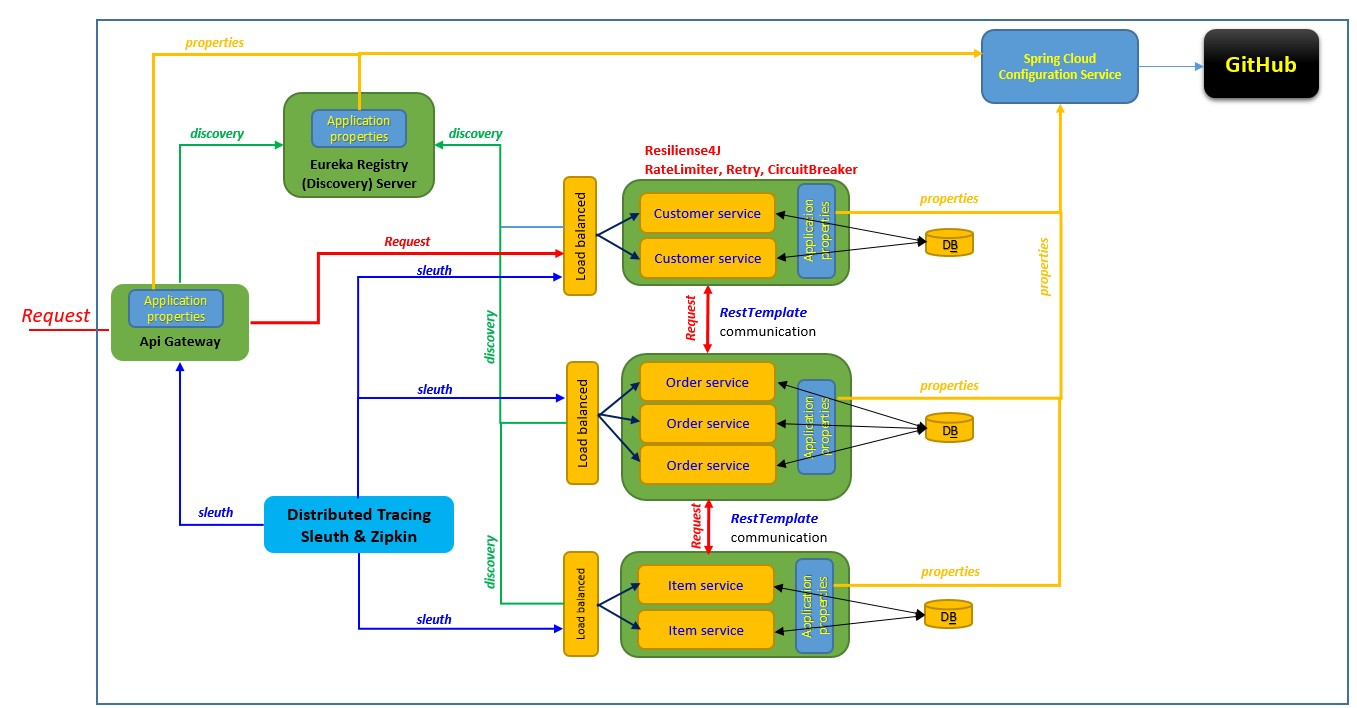
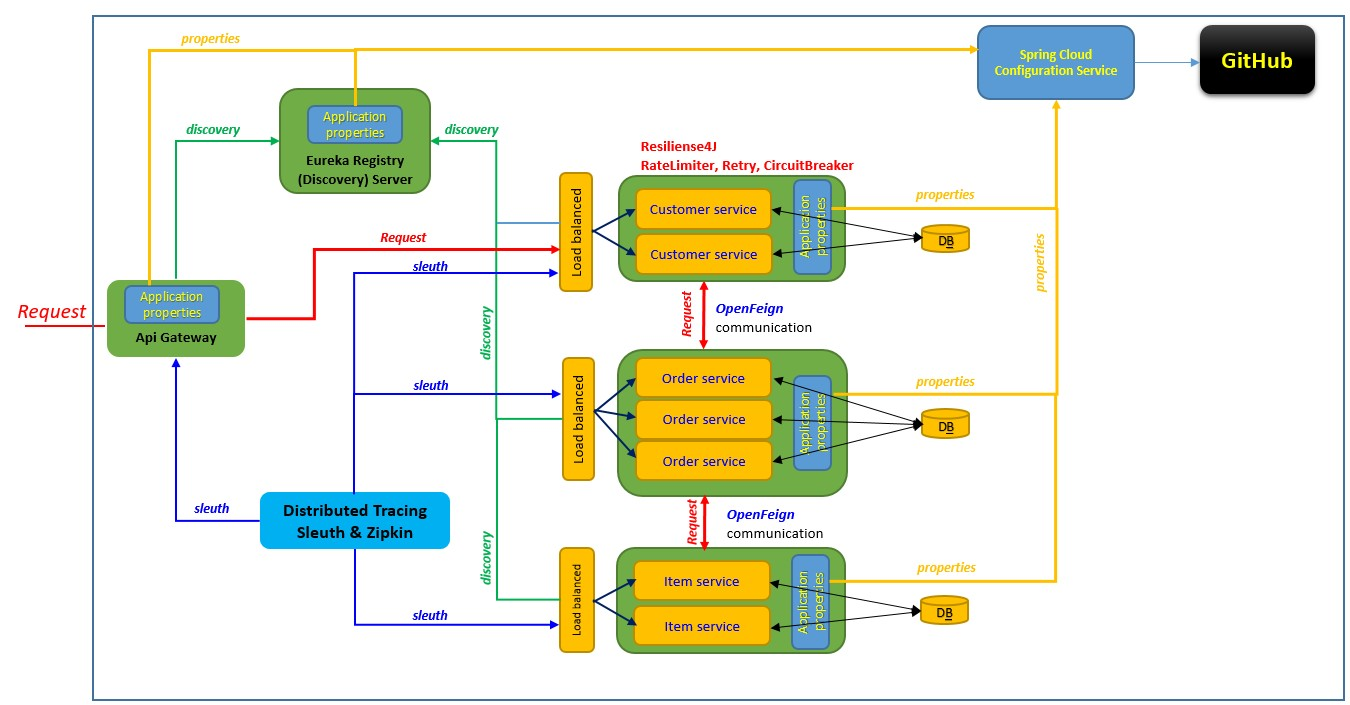
26-02-2026 12:50

Changed region(s): [[0.0, 0.0, 1.0, 0.9986]]

diff --git a/src/pages/MicroServices/MicroServiceComponents/M1_ArchitectureSpringBoot2Pkg/O0_ArchitecureOptionsSections/O2_SpringBoot2Architecture.tsx b/src/pages/MicroServices/MicroServiceComponents/M1_ArchitectureSpringBoot2Pkg/O0_ArchitecureOptionsSections/O2_SpringBoot2Architecture.tsx
@@ -4,6 +4,7 @@
 */
 import { IMG, Li, MainChildArea, ULDecimal, ULdisc } from "../../../../../components";
 import { SpanYellow } from "../../../../../components/Highlight";
+import microservice_1 from "../../../../../assets/microservice_1.jpg";
 
 const O2_SpringBoot2Architecture = ({ anchor }: { anchor: string }) => {
   return (
@@ -17,22 +18,51 @@ const O2_SpringBoot2Architecture = ({ anchor }: { anchor: string }) => {
             <Li>✅ Eureka</Li>
             <Li>✅ API Gateway</Li>
             <Li>✅ Config Server</Li>
-            <Li>✅ Load-balanced instances</Li>
+            <Li>
+              ✅ Load-balanced
+              <ULdisc>
+                <Li>Ribbon was used (now dead)</Li>
+                <Li>Use Spring Cloud LoadBalancer</Li>
+              </ULdisc>
+            </Li>
             <Li>✅ Separate DB per service</Li>
             <Li>✅ Resilience4j</Li>
-            <Li>✅ Sleuth + Zipkin (distributed tracing stack) standard tracing solution for Spring Boot 2 microservices</Li>
+            <Li>
+              ✅ Observability Sleuth + Zipkin (distributed tracing stack) standard tracing solution for Spring Boot 2 microservices
+              <ULdisc>
+                <Li>
+                  More adavanced <strong>is 3 pillars of observability</strong>
+                </Li>
+                <Li>
+                  🔹 Metrics stack(to monitor JVM memory, CPU , Request latency , Error rates ,Circuit breaker states), add:
+                  <ULdisc>
+                    <Li>Micrometer</Li>
+                    <Li>Prometheus</Li>
+                    <Li>Grafana</Li>
+                  </ULdisc>
+                </Li>
+              </ULdisc>
+            </Li>
             <Li>✅ Communication - OpenFeign , Kafka (Event driven), RabbitMq , RestTemplate (Old)</Li>
+            <Li>✅ ELK logging (Elasticsearch + Logstash + Kibana)</Li>
+            <Li>✅ Security</Li>
           </ULDecimal>
-          Why? This architecture is excellent to understand:
-          <ULdisc>
-            <Li>It teaches you the foundations.</Li>
-            <Li>Distributed systems</Li>
-            <Li>Observability</Li>
-            <Li>Resilience patterns</Li>
-            <Li>Service discovery</Li>
-            <Li>Cloud config management</Li>
-          </ULdisc>
-          <IMG img_name=""></IMG>
+          For <strong>Spring Boot 2</strong> microservices (2020–2023 era), This is a very correct and{" "}
+          <SpanYellow>production-grade architecture</SpanYellow>.
+          <article className="my-8">
+            🧠 Important Insight :This stack is not about Spring Boot version anymore.
+            <br />
+            It’s about:
+            <ULdisc>
+              <Li>Distributed systems principles</Li>
+              <Li>Observability</Li>
+              <Li>Resilience</Li>
+              <Li>Decoupling</Li>
+              <Li>Security</Li>
+            </ULdisc>
+            <SpanYellow>That knowledge transfers 100% to Spring Boot 3</SpanYellow>.
+          </article>
+          <IMG img_name={microservice_1}></IMG>
         </article>
       </section>
     </MainChildArea>
